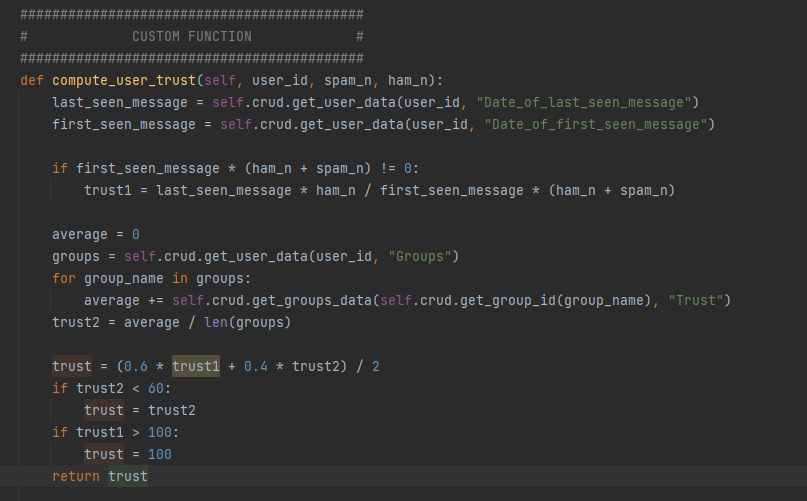
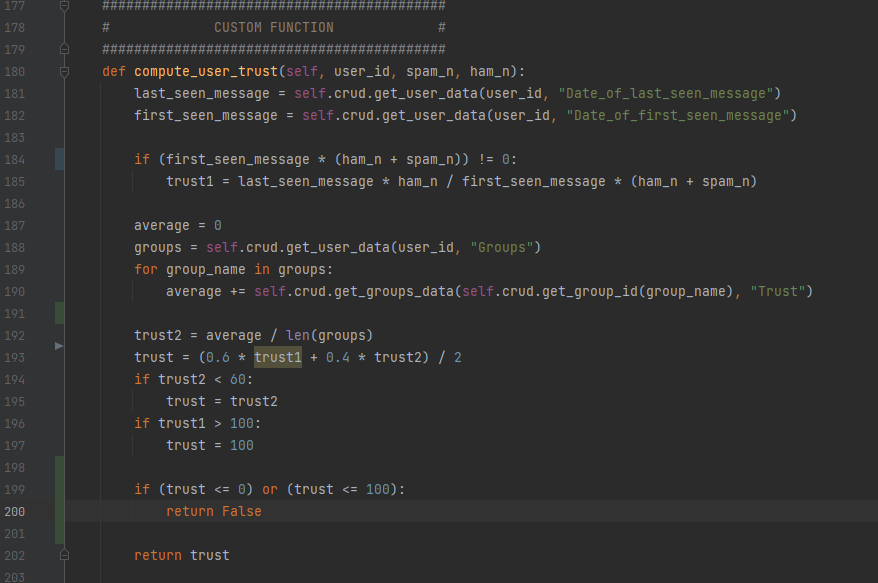
fix the compute trust fonction

diff --git a/TP1/renege.py b/TP1/renege.py
@@ -181,18 +181,22 @@ class RENEGE:
         last_seen_message = self.crud.get_user_data(user_id, "Date_of_last_seen_message")
         first_seen_message = self.crud.get_user_data(user_id, "Date_of_first_seen_message")
 
-        if first_seen_message * (ham_n + spam_n) != 0:
+        if (first_seen_message * (ham_n + spam_n)) != 0:
             trust1 = last_seen_message * ham_n / first_seen_message * (ham_n + spam_n)
 
         average = 0
         groups = self.crud.get_user_data(user_id, "Groups")
         for group_name in groups:
             average += self.crud.get_groups_data(self.crud.get_group_id(group_name), "Trust")
-        trust2 = average / len(groups)
 
+        trust2 = average / len(groups)
         trust = (0.6 * trust1 + 0.4 * trust2) / 2
         if trust2 < 60:
             trust = trust2
         if trust1 > 100:
             trust = 100
+
+        if (trust <= 0) or (trust <= 100):
+            return False
+
         return trust
